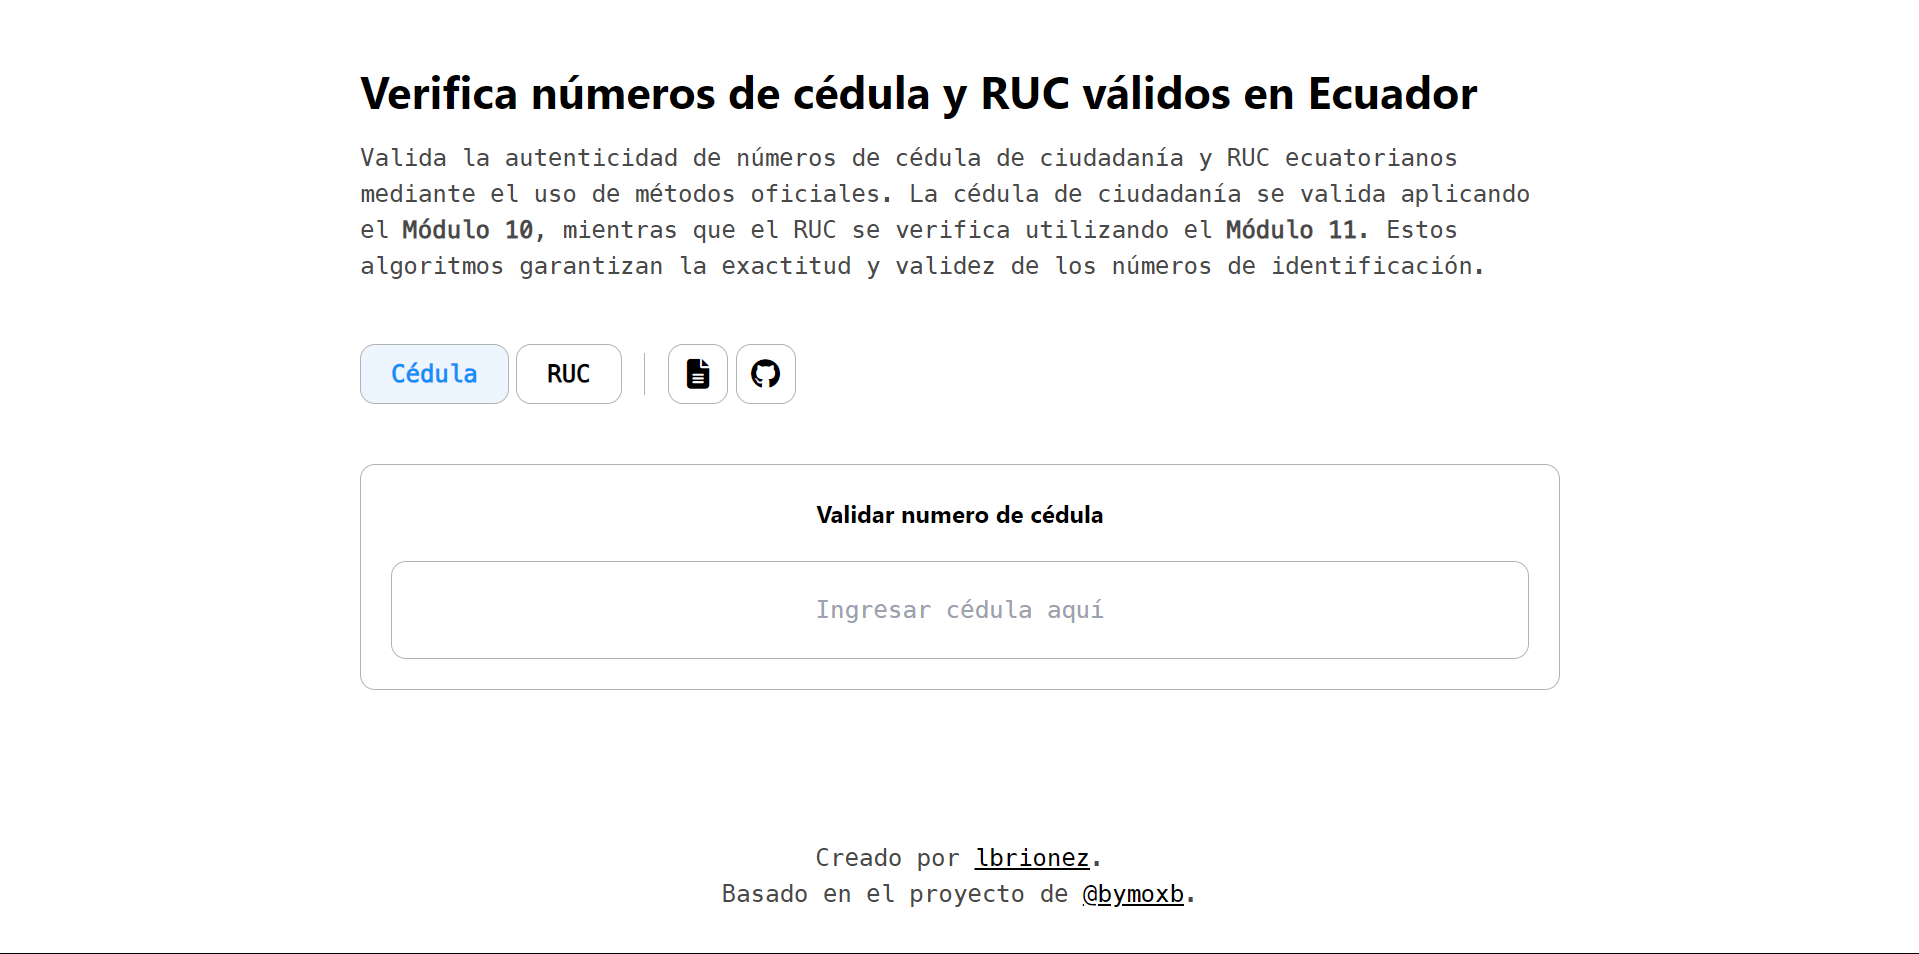
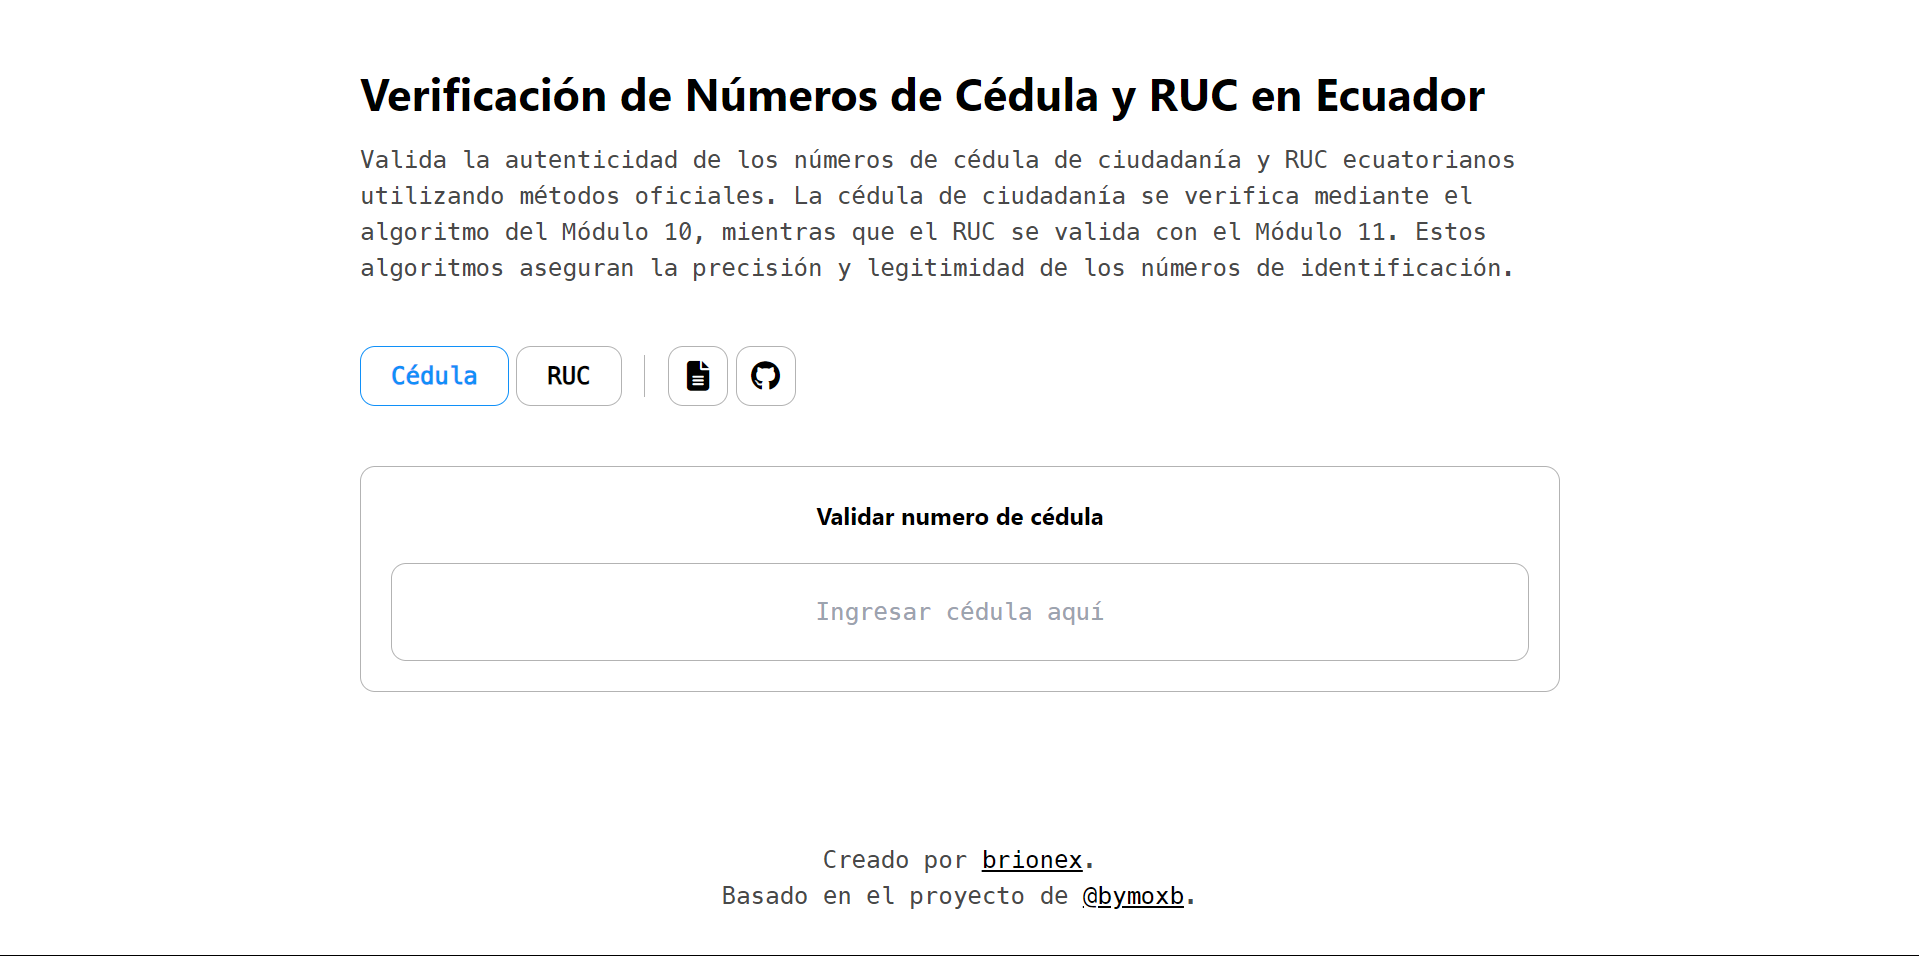
update

diff --git a/index.html b/index.html
@@ -8,7 +8,7 @@
       name="description"
       content="Valida cédulas de ciudadanía y RUC en Ecuador usando métodos oficiales como el Módulo 10 y Módulo 11."
     />
-    <meta name="author" content="@lbrionez en github" />
+    <meta name="author" content="@brionex en github" />
     <meta
       name="keywords"
       content="verificación cédula, RUC, Ecuador, Módulo 10, Módulo 11"
@@ -26,7 +26,7 @@
     <meta property="og:image" content="public/img/picture.png" />
     <meta
       property="og:url"
-      content="https://lbrionez.github.io/validate-ci-ruc/"
+      content="https://brionex.github.io/validate-ci-ruc/"
     />
     <meta property="og:type" content="tool" />
 
@@ -52,15 +52,14 @@
     <main class="main container">
       <header class="header">
         <h1 class="header__title">
-          Verifica números de cédula y RUC válidos en Ecuador
+          Verificación de Números de Cédula y RUC en Ecuador
         </h1>
         <p class="header__paragraph">
-          Valida la autenticidad de números de cédula de ciudadanía y RUC
-          ecuatorianos mediante el uso de métodos oficiales. La cédula de
-          ciudadanía se valida aplicando el <strong>Módulo 10</strong>, mientras
-          que el RUC se verifica utilizando el <strong>Módulo 11</strong>. Estos
-          algoritmos garantizan la exactitud y validez de los números de
-          identificación.
+          Valida la autenticidad de los números de cédula de ciudadanía y RUC
+          ecuatorianos utilizando métodos oficiales. La cédula de ciudadanía se
+          verifica mediante el algoritmo del Módulo 10, mientras que el RUC se
+          valida con el Módulo 11. Estos algoritmos aseguran la precisión y
+          legitimidad de los números de identificación.
         </p>
       </header>
 
@@ -79,9 +78,9 @@
           <li class="tabs__link">
             <a
               class="fa-brands fa-github"
-              href="https://github.com/lbrionez/validate-ci-ruc"
+              href="https://github.com/brionex/validate-ci-ruc"
               target="_blank"
-              title="Repositorio - lbrionez"
+              title="Repositorio - brionex"
             ></a>
           </li>
         </ul>
@@ -123,7 +122,12 @@
     <footer class="footer container">
       <p class="footer__text">
         Creado por
-        <a href="#" rel="noopener noreferrer">lbrionez</a>.
+        <a
+          href="https://www.brionex.xyz"
+          target="_blank"
+          rel="noopener noreferrer"
+          >brionex</a
+        >.
       </p>
       <p class="footer__text">
         Basado en el proyecto de

diff --git a/public/doc/doc.html b/public/doc/doc.html
@@ -28,7 +28,12 @@
     <footer class="footer container">
       <p class="footer__text">
         Creado por
-        <a href="#" rel="noopener noreferrer">lbrionez</a>.
+        <a
+          href="https://www.brionex.xyz"
+          target="_blank"
+          rel="noopener noreferrer"
+          >brionex</a
+        >.
       </p>
       <p class="footer__text">
         Basado en el proyecto de

diff --git a/public/css/home.css b/public/css/home.css
@@ -55,8 +55,8 @@
 .tabs__item:hover,
 .tabs__item.active,
 .tabs__link:hover {
-  background-color: var(--light-blue);
   color: var(--medium-blue);
+  border-color: var(--medium-blue);
 }
 
 .tabs__list .tabs__divider {

diff --git a/public/css/doc.css b/public/css/doc.css
@@ -31,6 +31,12 @@ main {
   color: var(--medium-blue);
 }
 
+h1 {
+  position: sticky;
+  background-color: #fff;
+  top: 75px;
+}
+
 #content {
   margin-bottom: 100px;
 }

diff --git a/public/css/global.css b/public/css/global.css
@@ -53,6 +53,12 @@ h3 {
 
 .footer {
   text-align: center;
+  display: flex;
+  flex-direction: column;
+}
+
+.footer__text {
+  margin: 0;
 }
 
 .footer a {

diff --git a/README.md b/README.md
@@ -3,7 +3,7 @@
 </h1>
 
 <p align="center">
-  <a href="https://lbrionez.github.io/validate-ci-ruc/" target="_blank">Accede a la herramienta</a>
+  <a href="https://ciruc.brionex.xyz/">Accede a la herramienta</a>
 </p>
 
 <p align="center">
